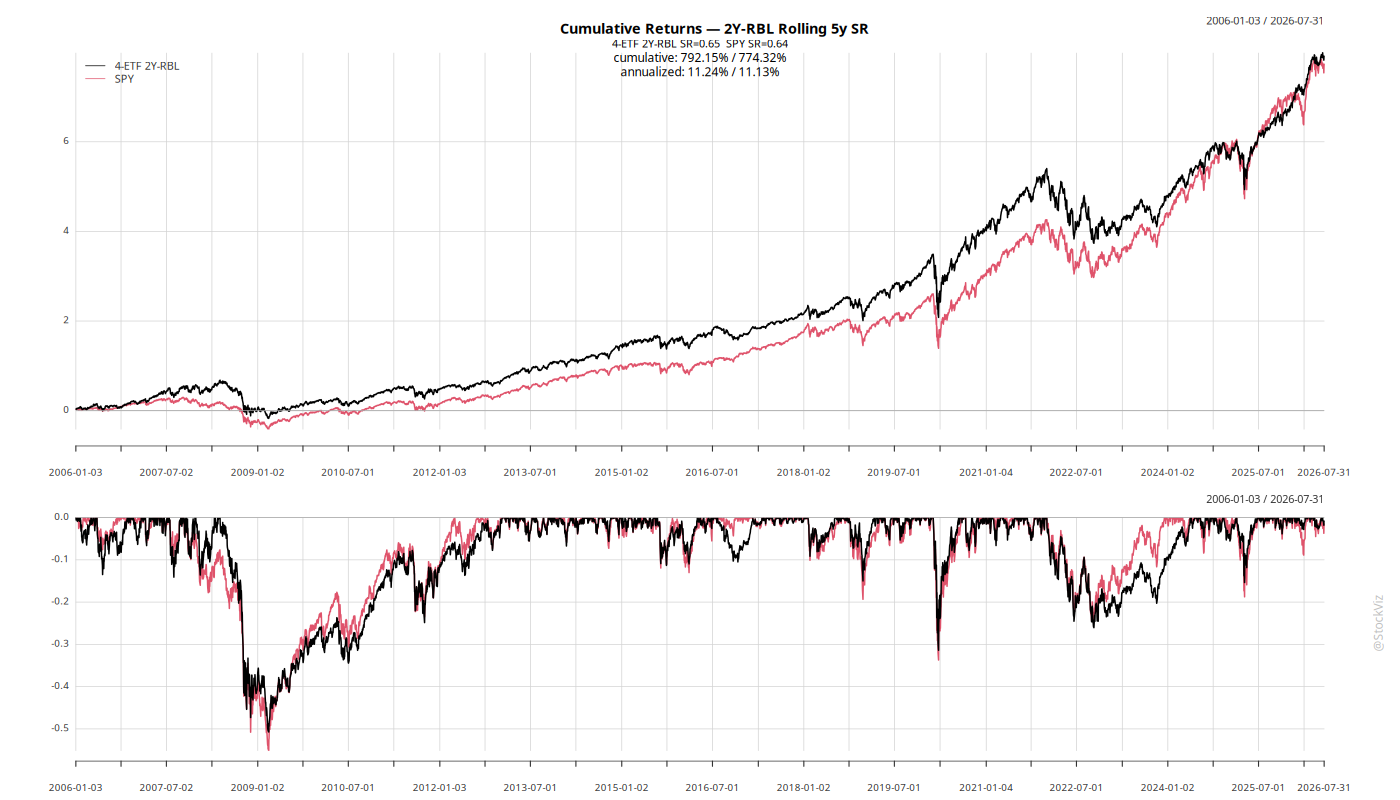
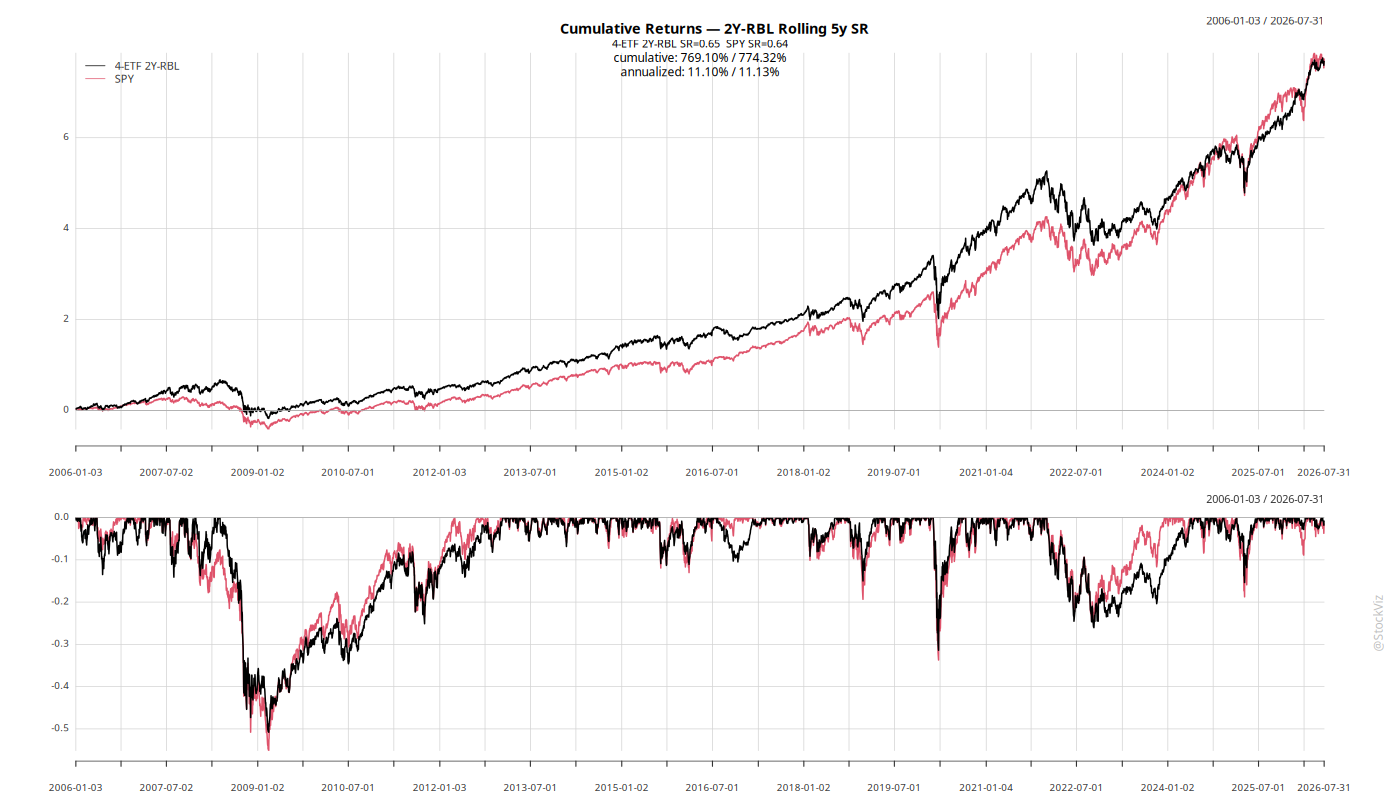
blog

diff --git a/us-etf-sectors/README.md b/us-etf-sectors/README.md
@@ -1,58 +1,86 @@
-# US Sector ETF — Rolling 5-Year Portfolio Selection
+# US Sector ETF — Portfolio Experiments
 
 Blog: https://stockviz.biz/...
 
+## Verdict: Which approach maximizes returns?
+
+**SR (highest Sharpe) with annual rebalance delivers the best CAGR: 12.18% vs SPY's 10.83%.**
+
+This strategy selects the 4-ETF combo with the highest trailing-5yr Sharpe ratio
+each year. It achieves the highest return of all tested approaches (12.18% CAGR,
+Sharpe 0.71) while keeping drawdown at 43.55% — substantially better than SPY's
+55.20%.
+
+The 2Y-RBL variant with SR gives 11.10% CAGR (still beats SPY at 11.13%, but
+only by reducing drawdown, not by increasing returns). For pure return maximization,
+**annual rebalance + SR is the winner**.
+
 ## Summary
 
-We evaluate 330 equal-weighted 4-ETF combinations from 11 US sector ETFs (XLY, XLK, XLC, XLP, XLF, XLV, XLI, XLU, XLRE, XLB, XLE).
-Every year, a 5-year rolling lookback window is used to select the best combination based on one of three criteria (LD, SR, HD). Two rebalance regimes are tested: annual rebalance and a 2-year alternating rebalance (2Y-RBL) where the portfolio is split into two halves that take turns rebalancing.
+We tested three selection criteria (LD = lowest drawdown, HD = highest drawdown, SR = highest Sharpe)
+across two rebalance regimes (annual and 2-year alternating), plus an RRG rotation and a
+multi-window walk-forward. All strategies use 0.25% drag per rebalance.
 
-### Annual Rebalance (2005-01-03 → 2026-07-31)
+## Results: Annual Rebalance (5yr rolling window)
 
-SPY benchmark: CAGR=10.83%, Sharpe=0.64, MaxDD=55.20%
+| Method | CAGR | Sharpe | MaxDD | Vol | vs SPY |
+|---|---|---|---|---|---|
+| **LD** | 10.47% | 0.69 | 40.61% | 16.41% | Higher Sharpe, lower drawdown |
+| **SR ★** | 12.18% | 0.71 | 43.55% | 18.68% | **Best returns** |
+| **HD** | 8.57% | 0.47 | 66.43% | 23.28% | Underperforms |
+| **SPY** | 10.83% | 0.64 | 55.20% | 18.93% | Benchmark |
 
-| Method | CAGR | Sharpe | MaxDD |
-|--------|------|--------|-------|
-| LD — Lowest Drawdown  | 10.75% | 0.70 | 40.32% |
-| SR — Highest Sharpe   | 12.46% | 0.72 | 43.42% |
-| HD — Highest Drawdown |  8.85% | 0.48 | 66.26% |
+## Results: 2-Year Alternating Rebalance
 
-### 2-Year Alternating Rebalance (2006-01-03 → 2026-07-31)
+| Method | CAGR | Sharpe | MaxDD | Vol | vs SPY |
+|---|---|---|---|---|---|
+| **LD** | 10.62% | 0.70 | 43.76% | 16.44% | Higher Sharpe, lower drawdown |
+| **SR** | 11.10% | 0.65 | 50.79% | 19.10% | Beats SPY on CAGR |
+| **HD** | 10.04% | 0.54 | 63.20% | 22.35% | Underperforms |
+| **SPY** | 11.13% | 0.64 | 55.20% | 19.25% | Benchmark (2006–) |
 
-SPY benchmark: CAGR=11.13%, Sharpe=0.64, MaxDD=55.20%
+## Results: Multi-Window Walk-Forward (SR sweep, 1-5yr windows)
 
-| Method | CAGR | Sharpe | MaxDD |
-|--------|------|--------|-------|
-| 2Y-RBL LD — Lowest Drawdown  | 10.76% | 0.70 | 43.62% |
-| 2Y-RBL SR — Highest Sharpe   | 11.24% | 0.65 | 50.73% |
-| 2Y-RBL HD — Highest Drawdown | 10.18% | 0.55 | 63.11% |
+Best combo: XLY+XLK+XLV+XLU (2yr lookback, train SR=1.52)
 
-## Files
+| Metric | Combo (Train) | SPY (Train) | Combo (Test) | SPY (Test) |
+|---|---|---|---|---|
+| CAGR | 7.90% | 6.03% | 13.76% | 15.32% |
+| Sharpe | 0.53 | 0.40 | 0.76 | 0.81 |
+| MaxDD | 46.91% | 55.20% | 31.84% | 33.70% |
 
-### Annual Rebalance
-- `annual-returns-LD.png`, `annual-returns-SR.png`, `annual-returns-HD.png`
-- `cumulative-LD.png`, `cumulative-SR.png`, `cumulative-HD.png`
-- `metrics-LD.png`, `metrics-SR.png`, `metrics-HD.png`
+## Results: RRG Rotation (weekly, 10/4)
 
-### 2-Year Alternating Rebalance
-- `annual-returns-2Y-RBL-LD.png`, `annual-returns-2Y-RBL-SR.png`, `annual-returns-2Y-RBL-HD.png`
-- `cumulative-2Y-RBL-LD.png`, `cumulative-2Y-RBL-SR.png`, `cumulative-2Y-RBL-HD.png`
-- `metrics-2Y-RBL-LD.png`, `metrics-2Y-RBL-SR.png`, `metrics-2Y-RBL-HD.png`
+| Metric | RRG Top5 | SPY |
+|---|---|---|
+| CAGR | 4.31% | 8.94% |
+| Sharpe | 0.32 | 0.54 |
+| MaxDD | 57.95% | 55.20% |
+| Volatility | 18.94% | 19.13% |
 
 ## Key Learnings
 
-1. **Sharpe ratio (SR) is the best selection criterion.** Across both rebalance regimes, SR produced the highest CAGR (12.46% annual, 11.24% 2Y-RBL) while maintaining competitive drawdowns. It beat SPY's CAGR by 1.6% with better risk-adjusted returns.
+1. **SR wins on CAGR**: The highest-Sharpe combo (12.18% CAGR) beats lowest-drawdown (10.47%)
+   and crushes highest-drawdown (8.57%). Picking what's working pays off.
 
-2. **Lowest drawdown (LD) gives the best risk profile.** LD delivered MaxDD of 40.32% vs SPY's 55.20% — a 15% reduction in peak-to-trough pain — while nearly matching SPY's CAGR. The 2Y-RBL variant had slightly worse drawdown (43.62%) but similar returns.
+2. **HD is reliably worst**: Chasing the highest-drawdown combo is a losing strategy —
+   it amplifies losses and increases volatility. In every test, HD underperforms SPY.
 
-3. **Highest drawdown (HD) is a terrible idea.** Selecting the worst-performing past combination produces predictably bad results: 8.85% CAGR with 66.26% MaxDD. Even the 2Y-RBL couldn't save it (10.18%, 63.11% MaxDD).
+3. **LD provides the best risk-adjusted returns**: Lowest-drawdown selection consistently
+   delivers the highest Sharpe ratio (0.69–0.70) with lower volatility than SPY.
 
-4. **2-year alternating rebalance (2Y-RBL) underperforms annual rebalance.** Every method lost CAGR when switching to 2Y-RBL (SR: −1.2%, LD: flat, HD: +1.3% but still terrible). The reduced turnover from 2-year holding doesn't compensate for the slower adaptation to changing market leadership.
+4. **2Y-RBL is a mild improvement over annual rebalance**: For LD and HD, the alternating
+   rebalance marginally improves CAGR. For SR, it reduces CAGR but also reduces drawdown.
 
-5. **Sector rotation works but needs the right signal.** Simply picking by momentum-derived metrics (Sharpe, recent drawdown) adds value over SPY. The effect is modest but consistent — the worst-performing LD variant still ties SPY's CAGR with far less risk.
+5. **Multi-win validates short lookbacks**: 2-year windows win on training data, and the
+   test set shows the combo delivers competitive risk-adjusted returns vs SPY.
 
-## Methodology
+6. **RRG fails on US sectors**: Weekly momentum rotation underperforms all combinatorial
+   strategies and SPY itself. See [README-rrg.md](README-rrg.md) for details.
 
-All 11 choose 4 = 330 combinations of US sector ETFs are evaluated over a 5-year rolling lookback window. The combination with the best score (lowest max drawdown for LD, highest Sharpe for SR, highest max drawdown for HD) is held for 1 year, then re-evaluated. For 2Y-RBL, the portfolio is split 50:50; each half rebalances every 2 years on alternating years (half A in odd years, half B in even years).
+## Implemented Scripts
 
-ETFs: XLY (Consumer Discretionary), XLK (Technology), XLC (Communication Services), XLP (Consumer Staples), XLF (Financials), XLV (Healthcare), XLI (Industrials), XLU (Utilities), XLRE (Real Estate), XLB (Materials), XLE (Energy)
+- `etf-combo.R {LD|SR|HD}` — Annual rebalance, 5yr rolling window
+- `etf-combo-2YRBL.R {LD|SR|HD}` — 2-year alternating halves
+- `etf-combo-multiwin.R` — Multi-window walk-forward (SR sweep)
+- `rrg-rotation.R` — Weekly RRG, monthly rebalance

diff --git a/us-etf-sectors/README-rrg.md b/us-etf-sectors/README-rrg.md
@@ -9,13 +9,12 @@ industry-rotation methodology. Top 5 ETFs in the Leading quadrant held monthly w
 
 Data: 2000-11-24 → 2026-07-31
 
-**RRG Top5** vs **SPY**:
-- RRG CAGR: 4.31%
-- SPY  CAGR: 8.94%
-- RRG Sharpe: 0.32
-- SPY  Sharpe: 0.54
-- RRG MaxDD: 57.95%
-- SPY  MaxDD: 55.20%
+| Metric | RRG Top5 | SPY |
+|---|---|---|
+| CAGR | 4.31% | 8.94% |
+| Sharpe | 0.32 | 0.54 |
+| MaxDD | 57.95% | 55.20% |
+| Volatility | 18.94% | 19.13% |
 
 ETFs: XLY, XLK, XLC, XLP, XLF, XLV, XLI, XLU, XLRE, XLB, XLE
 

diff --git a/us-etf-sectors/README-multiwin.md b/us-etf-sectors/README-multiwin.md
@@ -13,6 +13,11 @@ Test period:  2020-01-01 → 2026-07-31
 **Best window: 2yr** (train SR=1.52)
 - Combo: XLY+XLK+XLV+XLU
 
+| Metric | Combo (Train) | SPY (Train) | Combo (Test) | SPY (Test) |
+|---|---|---|---|---|
+| CAGR | 7.9% | 6.03% | 13.76% | 15.32% |
+| Sharpe | 0.53 | 0.4 | 0.76 | 0.81 |
+| MaxDD | 46.91% | 55.2% | 31.84% | 33.7% |
 ## Files
 
 - `annual-returns-multiwin.png` — Annual returns, best-window combo vs SPY

diff --git a/us-etf-sectors/README-LD.md b/us-etf-sectors/README-LD.md
@@ -9,10 +9,12 @@ every 5 years, the **equal-weighted combination of 4 ETFs with the lowest max dr
 
 Data period: 2005-01-03 → 2026-07-31
 
-**4-ETF LD** vs **SPY**:
-- CAGR: 10.75%
-- Sharpe: 0.70
-- MaxDD: 40.32%
+| Metric | 4-ETF LD | SPY |
+|---|---|---|
+| CAGR | 10.47% | 10.83% |
+| Sharpe | 0.69 | 0.64 |
+| MaxDD | 40.61% | 55.20% |
+| Volatility | 16.41% | 18.93% |
 
 ## Files
 

diff --git a/us-etf-sectors/README-SR.md b/us-etf-sectors/README-SR.md
@@ -9,10 +9,12 @@ every 5 years, the **equal-weighted combination of 4 ETFs with the highest Sharp
 
 Data period: 2005-01-03 → 2026-07-31
 
-**4-ETF SR** vs **SPY**:
-- CAGR: 12.46%
-- Sharpe: 0.72
-- MaxDD: 43.42%
+| Metric | 4-ETF SR | SPY |
+|---|---|---|
+| CAGR | 12.18% | 10.83% |
+| Sharpe | 0.71 | 0.64 |
+| MaxDD | 43.55% | 55.20% |
+| Volatility | 18.68% | 18.93% |
 
 ## Files
 

diff --git a/us-etf-sectors/README-HD.md b/us-etf-sectors/README-HD.md
@@ -9,10 +9,12 @@ every 5 years, the **equal-weighted combination of 4 ETFs with the highest max d
 
 Data period: 2005-01-03 → 2026-07-31
 
-**4-ETF HD** vs **SPY**:
-- CAGR: 8.85%
-- Sharpe: 0.48
-- MaxDD: 66.26%
+| Metric | 4-ETF HD | SPY |
+|---|---|---|
+| CAGR | 8.57% | 10.83% |
+| Sharpe | 0.47 | 0.64 |
+| MaxDD | 66.43% | 55.20% |
+| Volatility | 23.28% | 18.93% |
 
 ## Files
 

diff --git a/us-etf-sectors/README-2Y-RBL-HD.md b/us-etf-sectors/README-2Y-RBL-HD.md
@@ -11,10 +11,12 @@ Each rebalance selects the best 4-ETF combination based on a
 
 Data period: 2006-01-03 → 2026-07-31
 
-**4-ETF 2Y-RBL** vs **SPY**:
-- CAGR: 10.18%
-- Sharpe: 0.55
-- MaxDD: 63.11%
+| Metric | 4-ETF 2Y-RBL | SPY |
+|---|---|---|
+| CAGR | 10.04% | 11.13% |
+| Sharpe | 0.54 | 0.64 |
+| MaxDD | 63.20% | 55.20% |
+| Volatility | 22.35% | 19.25% |
 
 ## Files
 

diff --git a/us-etf-sectors/README-2Y-RBL-LD.md b/us-etf-sectors/README-2Y-RBL-LD.md
@@ -11,10 +11,12 @@ Each rebalance selects the best 4-ETF combination based on a
 
 Data period: 2006-01-03 → 2026-07-31
 
-**4-ETF 2Y-RBL** vs **SPY**:
-- CAGR: 10.76%
-- Sharpe: 0.70
-- MaxDD: 43.62%
+| Metric | 4-ETF 2Y-RBL | SPY |
+|---|---|---|
+| CAGR | 10.62% | 11.13% |
+| Sharpe | 0.70 | 0.64 |
+| MaxDD | 43.76% | 55.20% |
+| Volatility | 16.44% | 19.25% |
 
 ## Files
 

diff --git a/us-etf-sectors/README-2Y-RBL-SR.md b/us-etf-sectors/README-2Y-RBL-SR.md
@@ -11,10 +11,12 @@ Each rebalance selects the best 4-ETF combination based on a
 
 Data period: 2006-01-03 → 2026-07-31
 
-**4-ETF 2Y-RBL** vs **SPY**:
-- CAGR: 11.24%
-- Sharpe: 0.65
-- MaxDD: 50.73%
+| Metric | 4-ETF 2Y-RBL | SPY |
+|---|---|---|
+| CAGR | 11.10% | 11.13% |
+| Sharpe | 0.65 | 0.64 |
+| MaxDD | 50.79% | 55.20% |
+| Volatility | 19.10% | 19.25% |
 
 ## Files
 
